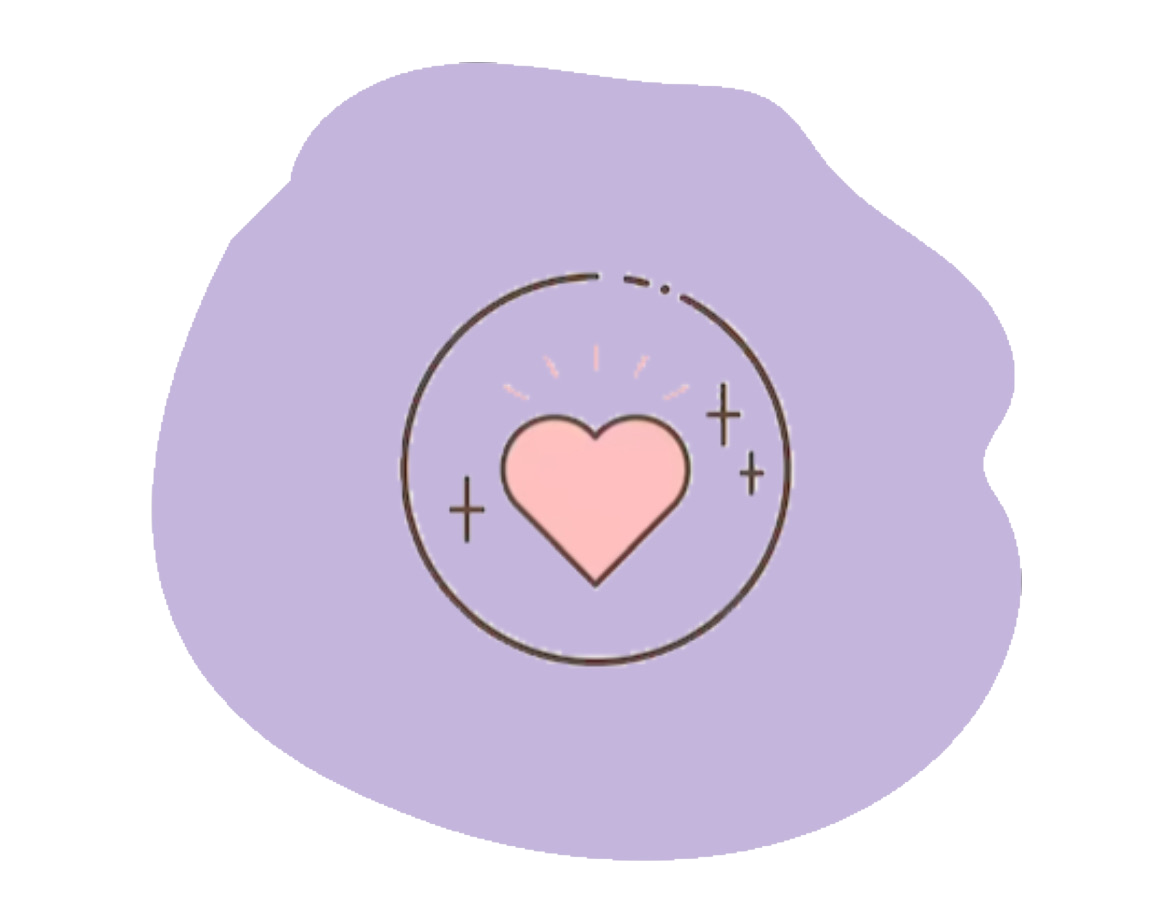
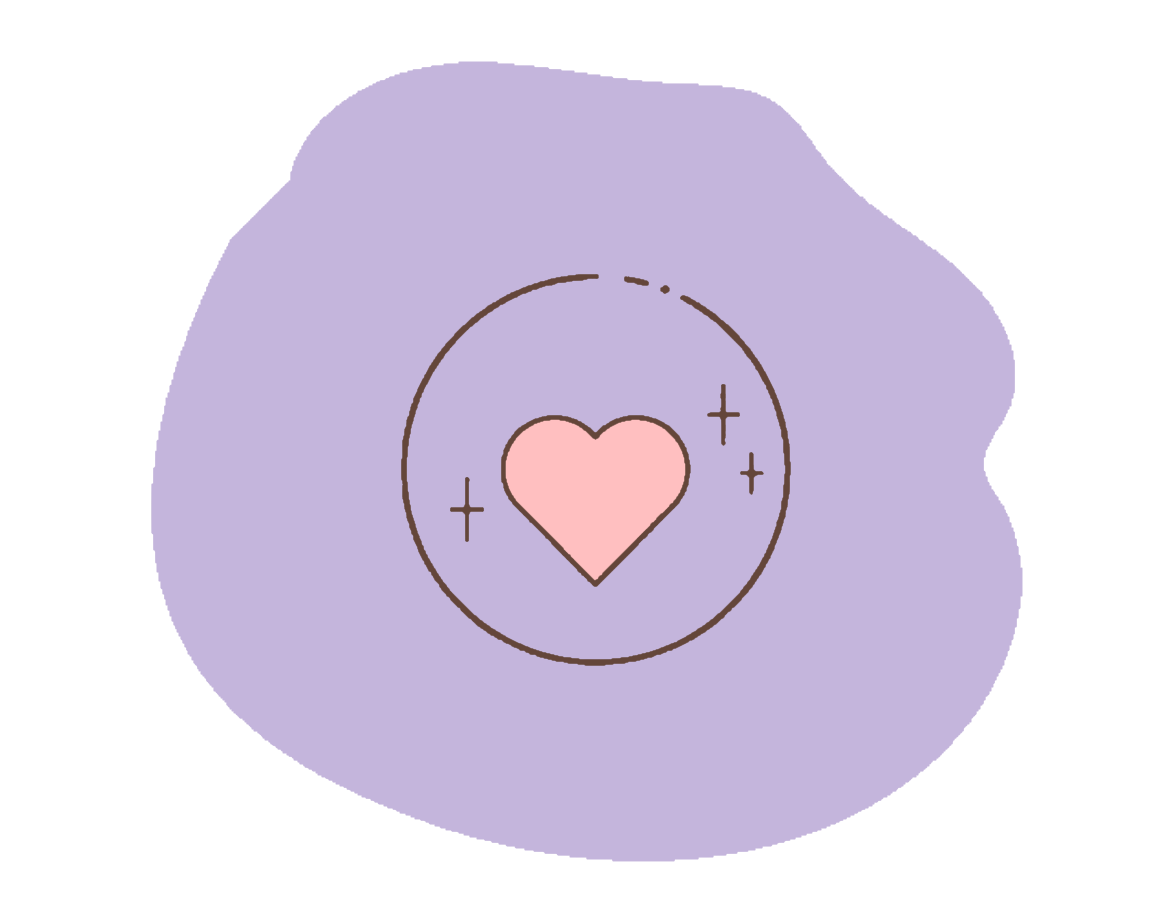
Chat system foundation + refined images
- Chat system organized
- Push notifications basic setup
- Firebase configurations and debug tools
- Cleaned photo quality + added app logo

diff --git a/lib/Chat/push_notifications.dart b/lib/Chat/push_notifications.dart
@@ -1,0 +1,78 @@
+import 'package:flutter_local_notifications/flutter_local_notifications.dart';
+import 'package:firebase_messaging/firebase_messaging.dart';
+import 'package:cloud_firestore/cloud_firestore.dart';
+import 'package:kankei/theme/theme_system.dart';
+
+String? mtoken = " ";
+late FlutterLocalNotificationsPlugin flutterLocalNotificationsPlugin = FlutterLocalNotificationsPlugin();
+typedef TokenUpdateCallback = void Function(String token);
+
+void requestPermissions() async {
+  FirebaseMessaging messaging = FirebaseMessaging.instance;
+  NotificationSettings settings = await messaging.requestPermission(
+    alert: true,
+    announcement: false,
+    badge: true,
+    carPlay: false,
+    criticalAlert: false,
+    provisional: false,
+    sound: true,
+  );
+
+  print('User granted permission for Firebase: ${settings.authorizationStatus}');
+}
+
+void getToken(TokenUpdateCallback updateCallback) async {
+  String? token = await FirebaseMessaging.instance.getToken();
+  if (token != null) {
+    updateCallback(token);
+    saveToken(token);
+  }
+}
+
+void saveToken(String token) async {
+  await FirebaseFirestore.instance.collection("users").doc(currentUserUid).update({
+    "token": token,
+  });
+  print("Token saved");
+}
+
+void initInfo() {
+  var androidInitialize = const AndroidInitializationSettings('@drawable/clean_logo');
+  var iOSInitialize = const IOSInitializationSettings();
+  var initializationSettings = InitializationSettings(android: androidInitialize, iOS: iOSInitialize);
+  flutterLocalNotificationsPlugin.initialize(initializationSettings, onSelectNotification: (String? payload) async {
+    try {
+      if (payload != null && payload.isNotEmpty) {
+        // Handle notification payload
+      } else {
+        // Handle notification without payload
+      }
+    } catch (e) {
+      print(e);
+    }
+    return;
+  });
+
+  FirebaseMessaging.onMessage.listen((RemoteMessage message) async {
+    print('\n\n\nGot a message whilst in the foreground!');
+    print('Message data: ${message.notification?.title}/${message.notification?.body}');
+
+    BigTextStyleInformation bigTextStyleInformation = BigTextStyleInformation(
+      message.notification!.body.toString(),
+      htmlFormatBigText: true,
+      contentTitle: message.notification!.title.toString(),
+      htmlFormatContentTitle: true,
+    );
+    AndroidNotificationDetails androidPlatformChannelSpecifics = AndroidNotificationDetails(
+      'dbfood',
+      'dbfood',
+      importance: Importance.max,
+      playSound: true,
+      priority: Priority.high,
+      styleInformation: bigTextStyleInformation,
+    );
+    NotificationDetails platformChannelSpecifics = NotificationDetails(android: androidPlatformChannelSpecifics, iOS: const IOSNotificationDetails());
+    await flutterLocalNotificationsPlugin.show(0, message.notification?.title, message.notification?.body, platformChannelSpecifics, payload: message.data['title']);
+  });
+}

diff --git a/lib/Chat/chat.dart b/lib/Chat/chat.dart
@@ -1,10 +1,12 @@
 import 'dart:convert';
 import 'dart:math';
+import '../../../theme/theme_system.dart';
+import 'push_notifications.dart';
+import 'package:flutter/cupertino.dart';
 
 import 'package:flutter/material.dart';
 import 'package:flutter_chat_ui/flutter_chat_ui.dart';
 import 'package:flutter_chat_types/flutter_chat_types.dart' as types;
-import 'package:kankei/theme/theme_system.dart';
 import 'package:provider/provider.dart';
 
 String randomString() {
@@ -21,19 +23,34 @@ class ChatPage extends StatefulWidget {
 }
 
 class _ChatPageState extends State<ChatPage> {
+
+  void updateToken(String token) {
+    setState(() {
+      mtoken = token;
+      print('User token: $token');
+    });
+  }
+
+  @override
+  void initState() {
+    super.initState();
+    requestPermissions();
+    getToken(updateToken);
+    initInfo();
+  }
+
   final List<types.Message> _messages = [];
   final _user = const types.User(id: '82091008-a484-4a89-ae75-a22bf8d6f3ac');
 
   @override
   Widget build(BuildContext context) {
+
+    //Dark or light theme
     final theme_provider = Provider.of<Theme_Provider>(context);
     bool isAppDarkMode = theme_provider.is_DarkMode;
-
     final Brightness brightnessValue = MediaQuery.of(context).platformBrightness;
     bool isSystemDarkMode = brightnessValue == Brightness.dark;
-
     bool is_dark = isAppDarkMode || isSystemDarkMode;
-
 
     return Scaffold(
       body: Chat(

diff --git a/lib/main.dart b/lib/main.dart
@@ -10,7 +10,7 @@ import 'choose_page.dart';
 import 'homepage.dart';
 import 'onboarding.dart';
 import 'Calendar_Page/calendar_page.dart';
-import 'chat.dart';
+import 'Chat/chat.dart';
 import 'us.dart';
 import 'ideas.dart';
 import 'package:flutter/services.dart';
